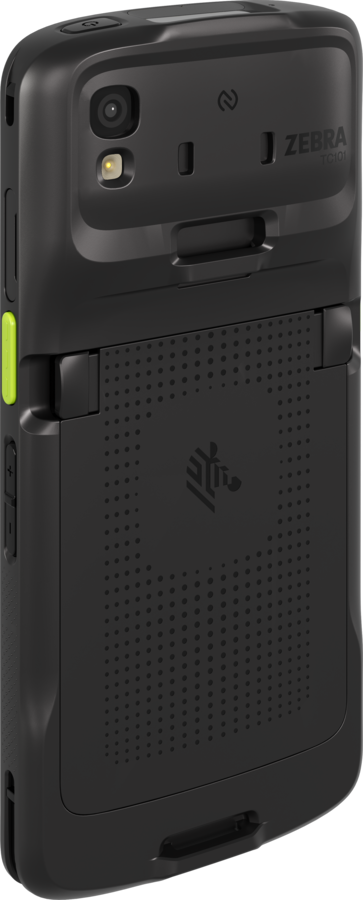
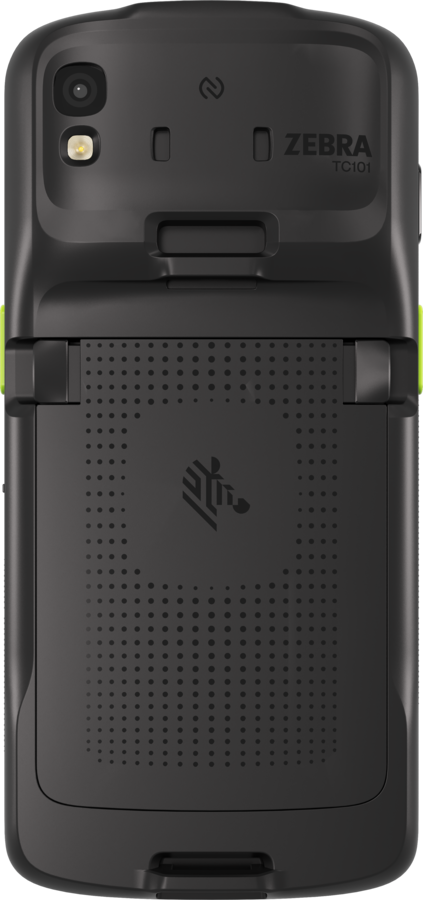
TC201: wpis pierwszoplanowo o TC201 + hero Higgsfield + UI poprawki
- Slug zebra-tc201-vs-tc22 → zebra-tc201; tytuł/SEO/excerpt o TC201 (porównanie z TC22 w treści)
- Hero w całości z Higgsfield (referencja TC201, ujęcie 3/4, zieleń #A8F000)
- GuidePage: zmiękczony gradient, overflow-x-clip (fix hover-zoom), hover-zoom obrazów w treści
- Treść: tylko zdjęcia TC201 (przód/tył + 2× 3/4 w skanerach), boxy decyzyjne czyste + CTA przyciski na dole
- Nowe rendery FR/FL + prosty tył; usunięty stary hero vs-tc22
- SEO/AEO/GEO zweryfikowane: Article+FAQPage(14)+Speakable+Breadcrumb, meta 162 zn., 0 img bez alt

diff --git a/src/data/guides.ts b/src/data/guides.ts
@@ -48,35 +48,37 @@ export const guideCategoryLabels: Record<Guide['category'], string> = {
 
 export const guides: Guide[] = [
 // ============================================================
-// 0. Zebra TC201 vs TC22 — nowy terminal TC2x (4. generacja), premiera 21.07.2026
+// 0. Zebra TC201 — nowy terminal TC2x (4. generacja), premiera 21.07.2026
 // ============================================================
 {
-  slug: 'zebra-tc201-vs-tc22',
-  title: 'Zebra TC201 vs TC22 — nowy terminal mobilny TC2x (porównanie 2026)',
-  seoTitle: 'Zebra TC201 vs TC22 — porównanie terminali 2026 | Wi-Fi 7, 5G, premiera 21.07',
-  seoDescription: 'Zebra TC201 vs TC22 — nowy terminal mobilny TC2x 2026: Qualcomm Dragonwing, Wi-Fi 7, Bluetooth 6, 5G, skaner do 30 m, FIPS 140-3. Premiera 21 lipca — co wybrać?',
-  excerpt: 'Zebra TC201 to czwarta generacja serii TC2x i następca bestsellerowego TC22 — nawet 150% więcej wydajności, Wi-Fi 7, Bluetooth 6, 5G, skaner dalekiego zasięgu do 30 m i najwyższa odporność w całej rodzinie TC2. Porównujemy TC201 z TC22 parametr po parametrze i podpowiadamy, kto powinien poczekać na premierę 21 lipca, a komu wystarczy TC22 dostępny od ręki.',
-  category: 'porownanie' as const,
-  tags: ['terminale-mobilne', 'porownanie', 'zebra', 'tc201', 'tc22', 'tc2x', 'wi-fi-7', '5g', 'kolektor-danych', 'Zebra TC201', 'Zebra TC22', 'TC201 vs TC22', 'nowość'],
+  slug: 'zebra-tc201',
+  title: 'Zebra TC201 — nowy terminal mobilny (kolektor danych)',
+  seoTitle: 'Zebra TC201 — nowy terminal mobilny TC2x 2026 | Wi-Fi 7, 5G, skaner 30 m',
+  seoDescription: 'Zebra TC201 — nowy kolektor danych serii TC2x: Qualcomm Dragonwing, Wi-Fi 7, Bluetooth 6, 5G, skaner do 30 m, FIPS 140-3, IP68. Premiera w Polsce 21 lipca 2026.',
+  excerpt: 'Zebra TC201 to czwarta generacja serii TC2x — wytrzymały terminal mobilny (kolektor danych) z procesorem Qualcomm Dragonwing, Wi-Fi 7, Bluetooth 6, opcjonalnym 5G, skanerem dalekiego zasięgu do 30 m i zabezpieczeniami klasy rządowej. Omawiamy specyfikację, zastosowania i to, czym TC201 różni się od dostępnego dziś TC22. Premiera w Polsce: 21 lipca 2026.',
+  category: 'przewodnik' as const,
+  tags: ['terminale-mobilne', 'przewodnik', 'zebra', 'tc201', 'tc2x', 'wi-fi-7', '5g', 'kolektor-danych', 'Zebra TC201', 'nowość', 'tc22'],
   publishedAt: '2026-06-19',
   updatedAt: '2026-06-19',
   readTime: '13 min',
-  heroImage: '/images/guides/zebra-tc201-vs-tc22-hero.webp',
-  heroImageAlt: 'Zebra TC201 — nowy terminal mobilny (kolektor danych) z serii TC2x, widok z przodu i z tyłu',
+  heroImage: '/images/guides/zebra-tc201-hero.webp',
+  heroImageAlt: 'Zebra TC201 — nowy terminal mobilny (kolektor danych) z serii TC2x',
   sections: [
     {
       id: 'podsumowanie',
-      heading: 'Zebra TC201 vs TC22 — następca bestsellera. Co się zmienia?',
-      content: `<div style="display:flex;gap:24px;flex-wrap:wrap;margin-bottom:24px;justify-content:center">
-<div style="min-width:200px;text-align:center;display:flex;flex-direction:column;align-items:center">
-<img src="/images/products/tc201_front.png" alt="Kolektor danych Zebra TC201 — nowy terminal mobilny TC2x, widok z przodu" style="max-height:180px;margin:0 auto" loading="lazy" />
-<p><strong>Zebra TC201</strong><br/>4. gen TC2x · Wi-Fi 7 + 5G · premiera 21 lipca 2026</p>
+      heading: 'Zebra TC201 — nowy standard terminala mobilnego serii TC2x',
+      content: `<div style="display:flex;gap:32px;flex-wrap:wrap;margin-bottom:24px;justify-content:center;align-items:flex-end">
+<div style="min-width:180px;text-align:center;display:flex;flex-direction:column;align-items:center">
+<img src="/images/products/tc201_front.png" alt="Kolektor danych Zebra TC201 — nowy terminal mobilny TC2x, widok z przodu (ekran 6 cali FHD+)" style="max-height:200px;margin:0 auto" loading="lazy" />
+<p><strong>Zebra TC201 — przód</strong><br/>ekran 6" FHD+, klawisze skanowania</p>
 </div>
-<div style="min-width:200px;text-align:center;display:flex;flex-direction:column;align-items:center">
-<img src="/images/products/tc22_front.png" alt="Kolektor danych Zebra TC22 — terminal mobilny Wi-Fi 6E, widok z przodu" style="max-height:180px;margin:0 auto" loading="lazy" />
-<p><strong><a href="/produkt/zebra-tc22">Zebra TC22</a></strong><br/>3. gen TC2x · Wi-Fi 6E · od 2 417 zł netto, od ręki</p>
+<div style="min-width:180px;text-align:center;display:flex;flex-direction:column;align-items:center">
+<img src="/images/products/tc201_back.png" alt="Kolektor danych Zebra TC201 — widok z tyłu: okno skanera, aparat 16 MP z lampą i antena RFID" style="max-height:200px;margin:0 auto" loading="lazy" />
+<p><strong>Zebra TC201 — tył</strong><br/>skaner, aparat 16 MP, opcja RFID</p>
 </div>
 </div>
+
+<p style="text-align:center;margin:-8px 0 24px;color:#475569"><strong>4. generacja TC2x</strong> · Qualcomm Dragonwing · Wi-Fi 7 · Bluetooth 6 · opcja 5G · skaner do 30 m · IP68 · premiera 21 lipca 2026</p>
 
 <p><strong>Zebra TC201</strong> to czwarta generacja serii TC2x — najpopularniejszej rodziny ekonomicznych terminali mobilnych (kolektorów danych) klasy enterprise w Europie. To bezpośredni następca TC22 i TC27: jedna platforma, która łączy Wi-Fi 7 z opcjonalnym modułem 5G, dodaje procesor Qualcomm Dragonwing Q-6690 (do 150% wyższa wydajność niż starsze TC2x), skaner dalekiego zasięgu sięgający 30 m, zabezpieczenia klasy rządowej (FIPS 140-3, Common Criteria) i najwyższą odporność w całej historii serii TC2. Premiera w Polsce: <strong>21 lipca 2026</strong>.</p>
 
@@ -150,7 +152,10 @@ export const guides: Guide[] = [
       heading: 'Skanery — SR500, AC670 (30 m) i SR560 vs SE4710/SE55',
       content: `<p style="background:#f8fee6;border-left:4px solid #A8F000;padding:12px 16px;border-radius:0 8px 8px 0;margin-bottom:16px"><strong>TC201 wprowadza nową rodzinę skanerów: SR500 (zakres standardowy), AC670 Advanced Range odczytujący kody do 30 m i robiący kolorowe zdjęcia, oraz SR560 z głowicą pod kątem 60°. TC22 oferuje SE4710 (do 35 cm) i SE55 (do 7,6 m). Skaner dalekiego zasięgu TC201 sięga niemal 4× dalej niż SE55.</strong></p>
 
-<img src="/images/products/tc201_back.png" alt="Kolektor danych Zebra TC201 — widok z tyłu: okno skanera, aparat 16 MP z lampą i antena RFID" style="max-width:240px;margin:0 auto 16px;display:block" loading="lazy" />
+<div style="display:flex;gap:86px;flex-wrap:wrap;justify-content:center;margin:0 auto 16px">
+<img src="/images/products/tc201_front_right.png" alt="Kolektor danych Zebra TC201 — ujęcie 3/4 z prawej, klawisz skanowania i kołyska głośności" style="max-height:240px" loading="lazy" />
+<img src="/images/products/tc201_front_left.png" alt="Kolektor danych Zebra TC201 — ujęcie 3/4 z lewej, boczny klawisz skanowania" style="max-height:240px" loading="lazy" />
+</div>
 
 <p><strong>Wybór skanera definiuje zastosowanie terminala.</strong> TC201 daje tu więcej opcji niż TC22 — łącznie z odczytem na bardzo dużych dystansach.</p>
 
@@ -259,28 +264,30 @@ export const guides: Guide[] = [
       heading: 'Podsumowanie — TC201 czy TC22?',
       content: `<p><strong>TC201 to czwarta generacja serii TC2x i realny skok względem TC22: mocniejszy procesor, Wi-Fi 7, Bluetooth 6, opcjonalne 5G i GPS w jednym urządzeniu, skaner do 30 m, najwyższa odporność w serii i certyfikaty bezpieczeństwa.</strong> TC22 pozostaje świetnym, tańszym i dostępnym od ręki terminalem do pracy wewnątrz budynku.</p>
 
-<div style="display:flex;gap:24px;flex-wrap:wrap;margin:20px 0">
-<div style="flex:1;min-width:260px;border:2px solid #1976d2;border-radius:12px;padding:20px">
-<h3 style="color:#1976d2;margin-top:0">Wybierz TC22, jeśli:</h3>
-<ul>
-<li>Potrzebujesz terminali od ręki (przed 21 lipca)</li>
-<li>Praca tylko wewnątrz budynku z Wi-Fi</li>
-<li>Liczy się najniższa cena (od 2 417 zł netto)</li>
-<li>Skanujesz na dystansie do 7,6 m</li>
-<li>Nie wymagasz 5G, GPS ani certyfikatów FIPS</li>
+<div style="display:flex;gap:20px;flex-wrap:wrap;margin:24px 0">
+<div style="flex:1;min-width:280px;display:flex;flex-direction:column;text-align:left;border:1px solid #e2e8f0;border-radius:12px;padding:24px">
+<img src="/images/products/tc22_front.png" alt="Zebra TC22 — terminal mobilny (kolektor danych), widok z przodu" style="max-height:140px;display:block;margin:0 auto 18px" loading="lazy" />
+<h3 style="margin:0 0 14px;font-size:18px;color:#0f172a">Wybierz TC22, jeśli:</h3>
+<ul style="margin:0;padding-left:20px;color:#334155">
+<li style="margin:0 0 8px">Potrzebujesz terminali od ręki (przed 21 lipca)</li>
+<li style="margin:0 0 8px">Praca tylko wewnątrz budynku z Wi-Fi</li>
+<li style="margin:0 0 8px">Liczy się najniższa cena (od 2 417 zł netto)</li>
+<li style="margin:0 0 8px">Skanujesz na dystansie do 7,6 m</li>
+<li style="margin:0">Nie wymagasz 5G, GPS ani certyfikatów FIPS</li>
 </ul>
-<p><strong><a href="/produkt/zebra-tc22">→ Zobacz Zebra TC22</a></strong></p>
+<p style="margin-top:auto;padding-top:20px;margin-bottom:0"><a href="/produkt/zebra-tc22" style="display:inline-block;background:#2563eb;color:#ffffff;font-weight:600;padding:10px 18px;border-radius:8px;text-decoration:none">Zobacz Zebra TC22 →</a></p>
 </div>
-<div style="flex:1;min-width:260px;border:2px solid #e65100;border-radius:12px;padding:20px">
-<h3 style="color:#e65100;margin-top:0">Wybierz TC201, jeśli:</h3>
-<ul>
-<li>Kupujesz flotę na 5–7 lat (dłuższe wsparcie)</li>
-<li>Chcesz 5G i GPS w jednym modelu</li>
-<li>Potrzebujesz skanera dalekiego zasięgu (do 30 m)</li>
-<li>Działasz w sektorze regulowanym (FIPS, Common Criteria)</li>
-<li>Pracujesz w mrozie (do -20°C) lub planujesz aplikacje AI</li>
+<div style="flex:1;min-width:280px;display:flex;flex-direction:column;text-align:left;border:1px solid #e2e8f0;border-radius:12px;padding:24px">
+<img src="/images/products/tc201_front.png" alt="Zebra TC201 — nowy terminal mobilny (kolektor danych), widok z przodu" style="max-height:140px;display:block;margin:0 auto 18px" loading="lazy" />
+<h3 style="margin:0 0 14px;font-size:18px;color:#0f172a">Wybierz TC201, jeśli:</h3>
+<ul style="margin:0;padding-left:20px;color:#334155">
+<li style="margin:0 0 8px">Kupujesz flotę na 5–7 lat (dłuższe wsparcie)</li>
+<li style="margin:0 0 8px">Chcesz 5G i GPS w jednym modelu</li>
+<li style="margin:0 0 8px">Potrzebujesz skanera dalekiego zasięgu (do 30 m)</li>
+<li style="margin:0 0 8px">Działasz w sektorze regulowanym (FIPS, Common Criteria)</li>
+<li style="margin:0">Pracujesz w mrozie (do -20°C) lub planujesz aplikacje AI</li>
 </ul>
-<p><strong><a href="/kontakt">→ Zapytaj o TC201 / rezerwacja</a></strong></p>
+<p style="margin-top:auto;padding-top:20px;margin-bottom:0"><a href="/kontakt" style="display:inline-block;background:#2563eb;color:#ffffff;font-weight:600;padding:10px 18px;border-radius:8px;text-decoration:none">Zapytaj o TC201 / rezerwacja →</a></p>
 </div>
 </div>
 

diff --git a/src/components/guide/GuidePage.tsx b/src/components/guide/GuidePage.tsx
@@ -223,7 +223,7 @@ export default function GuidePage({ guide }: GuidePageProps) {
                 className="absolute inset-0 pointer-events-none hidden sm:block"
                 style={{
                   background:
-                    'linear-gradient(to right, #020102 0%, #020102 50%, rgba(2,1,2,0.92) 60%, rgba(2,1,2,0.55) 72%, rgba(2,1,2,0.2) 86%, rgba(2,1,2,0) 100%)',
+                    'linear-gradient(to right, #020102 0%, #020102 22%, rgba(2,1,2,0.9) 38%, rgba(2,1,2,0.6) 52%, rgba(2,1,2,0.28) 70%, rgba(2,1,2,0.08) 86%, rgba(2,1,2,0) 100%)',
                 }}
               />
               <div className="relative">
@@ -330,14 +330,14 @@ export default function GuidePage({ guide }: GuidePageProps) {
             </aside>
 
             {/* Main Content */}
-            <article className="flex-1 max-w-3xl min-w-0 overflow-x-hidden">
+            <article className="flex-1 max-w-3xl min-w-0 overflow-x-clip">
               {/* Content Sections */}
               <div className="space-y-10">
                 {guide.sections.map(section => (
                   <section key={section.id} id={section.id}>
                     <h2 className="text-xl sm:text-2xl font-bold text-gray-900 mb-4 break-words">{section.heading}</h2>
                     <div
-                      className="prose prose-gray max-w-none sm:text-justify prose-headings:text-gray-900 prose-headings:text-left prose-a:text-primary-600 prose-a:no-underline hover:prose-a:underline prose-img:rounded-xl [&_img]:max-h-48 sm:[&_img]:max-h-64 [&_table]:!text-[10px] sm:[&_table]:!text-xs md:[&_table]:!text-sm [&_table]:w-full [&_table]:border-collapse [&_table]:shadow-sm [&_table]:border [&_table]:border-gray-200 [&_th]:bg-gray-800 [&_th]:text-white [&_th]:text-left [&_th]:font-semibold [&_th]:!normal-case [&_th]:!tracking-normal [&_th]:!px-1.5 [&_th]:!py-1.5 sm:[&_th]:!px-3 sm:[&_th]:!py-2 md:[&_th]:!px-4 md:[&_th]:!py-3 [&_td]:!px-1.5 [&_td]:!py-1.5 sm:[&_td]:!px-3 sm:[&_td]:!py-2 md:[&_td]:!px-4 md:[&_td]:!py-3 [&_td]:border-t [&_td]:border-gray-100 [&_tbody_tr:nth-child(even)]:bg-gray-50/60 [&_tbody_tr:hover]:bg-blue-50/40 [&_tbody_tr]:transition-colors [&_td:first-child]:font-semibold [&_td:first-child]:text-gray-900 [&_th_a]:text-white [&_th_a]:underline [&_caption]:text-left [&_caption]:text-xs [&_caption]:text-gray-500 [&_caption]:mb-2 [&_caption]:font-medium"
+                      className="prose prose-gray max-w-none sm:text-justify prose-headings:text-gray-900 prose-headings:text-left prose-a:text-primary-600 prose-a:no-underline hover:prose-a:underline prose-img:rounded-xl [&_img]:max-h-48 sm:[&_img]:max-h-64 [&_img]:transition-transform [&_img]:duration-300 [&_img]:ease-out [&_img]:cursor-zoom-in [&_img]:relative [&_img:hover]:scale-[1.7] [&_img:hover]:z-20 [&_table]:!text-[10px] sm:[&_table]:!text-xs md:[&_table]:!text-sm [&_table]:w-full [&_table]:border-collapse [&_table]:shadow-sm [&_table]:border [&_table]:border-gray-200 [&_th]:bg-gray-800 [&_th]:text-white [&_th]:text-left [&_th]:font-semibold [&_th]:!normal-case [&_th]:!tracking-normal [&_th]:!px-1.5 [&_th]:!py-1.5 sm:[&_th]:!px-3 sm:[&_th]:!py-2 md:[&_th]:!px-4 md:[&_th]:!py-3 [&_td]:!px-1.5 [&_td]:!py-1.5 sm:[&_td]:!px-3 sm:[&_td]:!py-2 md:[&_td]:!px-4 md:[&_td]:!py-3 [&_td]:border-t [&_td]:border-gray-100 [&_tbody_tr:nth-child(even)]:bg-gray-50/60 [&_tbody_tr:hover]:bg-blue-50/40 [&_tbody_tr]:transition-colors [&_td:first-child]:font-semibold [&_td:first-child]:text-gray-900 [&_th_a]:text-white [&_th_a]:underline [&_caption]:text-left [&_caption]:text-xs [&_caption]:text-gray-500 [&_caption]:mb-2 [&_caption]:font-medium"
                       dangerouslySetInnerHTML={{ __html: wrapTablesInScroll(boldifyModels(section.content)) }}
                     />
                   </section>

diff --git a/PROGRESS.md b/PROGRESS.md
@@ -5,6 +5,19 @@
 
 ---
 
+## 2026-06-19 — TC201: przebudowa wpisu na pierwszoplanowo TC201 + hero Higgsfield + UI
+
+- **Slug** zmieniony `zebra-tc201-vs-tc22` → `zebra-tc201`; tytuł/SEO/excerpt przestawione na TC201 (porównanie z TC22 zostaje w treści), kategoria `przewodnik`. Usunięte „serii TC2x 2026" z H1.
+- **Hero**: generowany W CAŁOŚCI w Higgsfield (nano_banana_pro) z renderami TC201 jako referencją (NIE composite ImageMag! — patrz [[feedback_hero-generate-whole-in-higgsfield]]). Finalnie ujęcie 3/4 (Front-Left ref → poprawne klawisze), pełne rozpoznawalne urządzenie, scena magazynu zalana firmową zielenią #A8F000. Warianty w `TC201/hero-34-w*.png`.
+- **GuidePage.tsx**: zmiękczony gradient nakładki hero (mniej przykrywa obraz); `overflow-x-hidden` → `overflow-x-clip` na <article> (hover-zoom nie ucinał góry); dodany hover-zoom obrazów w treści (`[&_img:hover]:scale-[1.7]`).
+- **Treść**: blok góra = 2× TC201 (przód+tył, bez TC22); sekcja skanery = 2 ujęcia 3/4 (FR+FL, gap 86px); back render podmieniony na prosty tył. Boxy decyzyjne przerobione na CZYSTE (jednolita ramka, bez badge/gradientu/cienia = anty-AI-slop), CTA jako solidny przycisk #2563eb przypięty do dołu (flex+margin-top:auto), zdjęcia TC22/TC201 na górze boksów.
+- **Nowe rendery**: `tc201_front_right.png`, `tc201_front_left.png`; `tc201_back.png` (prosty tył); hero `zebra-tc201-hero.webp` (usunięty stary `...-vs-tc22-hero.webp`).
+- **SEO/AEO/GEO zweryfikowane (localhost)**: title z frazą, meta desc 162 zn., canonical OK, OG+hero, H1 wiodący modelem, 11×H2; JSON-LD: Article(author/dates), BreadcrumbList, FAQPage 14 Q&A, SpeakableSpecification (AEO), ImageObject, Organization, WebSite; 0 img bez alt; bogata treść (296× „TC201", tabele specyfikacji, encje Qualcomm/Wi-Fi7/FIPS → GEO). Uwaga: author w schema = „Jakub Tiuchty" (globalne w GuidePage, nie zmieniam).
+- Pamięć: nowe [[reference_zebra-brand-color]] (#A8F000), [[feedback_hero-generate-whole-in-higgsfield]], rozszerzony [[feedback_no-colored-left-border]] (badge/gradient/cień/pigułka = slop).
+- tsc 0, strona 200. Commit: <ten>. Wdrożenie: po akceptacji (user zlecił commit+push tego etapu).
+
+---
+
 ## 2026-06-19 — blog: wpis Zebra TC201 vs TC22 (SEO seeding przed premierą 21.07)
 
 - **Cel:** zasiać treść pod „zebra tc201" przed premierą 21 lipca 2026; porównanie do TC22; hero z prawdziwego renderu 1:1.
